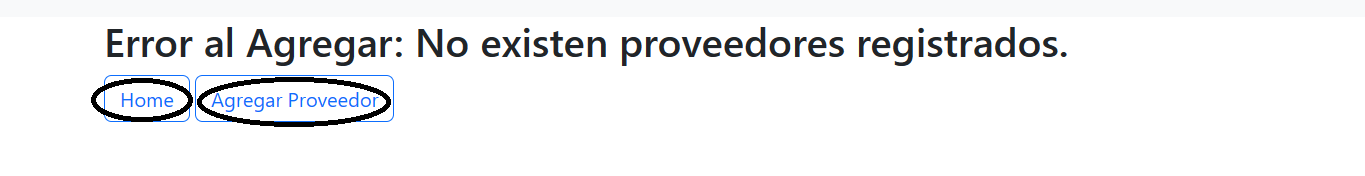
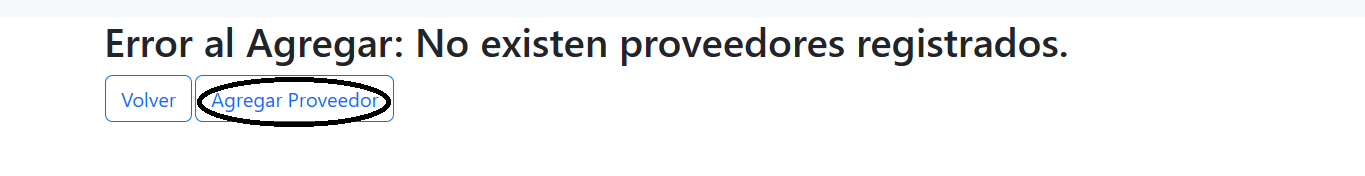
Segundo commit. Agregue clave candidata Nombre-Proveedor en el modelo Producto. Modifique botones y templates. Cambie el nombre del template inicial a Inicio, agregue links en la lista de proveedores hacia una lista de productos pertenecientes a un proveedor, y agregue un template para agregar produ

Changed region(s): [[0.0615, 0.4261, 0.1538, 0.7102]]

diff --git a/compra/templates/inicio.html b/compra/templates/inicio.html
@@ -1,0 +1,71 @@
+
+{% extends 'base.html' %}
+{% load static%}
+{% block 'content' %}
+    <h1>Stock Control</h1><br>
+    <h4><em>¿Como lo uso?</em></h4>
+    <ol>
+        <li>
+            <p>
+                Si el navegador posee una pantalla pequeña, debes clickear sobre el <strong>Menú</strong> <i class="fa-solid fa-bars fa-2xs"></i> . Si no, ignora este paso.
+            </p>
+        </li>
+        <li>
+            <p>
+                Luego haz click en <strong>Proveedores</strong> y agrega uno clickeando en <i class="fa-solid fa-plus" style="color: #11ff00;"></i> debajo de la tabla.
+            </p>
+        </li>
+        <li>
+            <p>
+                Lo siguiente es registrar los Productos que nos provee. Haz click en <strong>Productos</strong> y luego haz click en <i class="fa-solid fa-plus" style="color: #11ff00;"></i> debajo de la tabla.
+            </p>
+        </li>
+        <li>
+            <p>
+            Y por ultimo repetir los pasos anteriores para formar tu Base de datos de <strong>Proveedores</strong> y <strong>Productos</strong>.
+            </p>
+        </li>
+    </ol><br>
+    <h4><em>Funciones Principales</em></h4>
+    <ul>
+        <li>
+            <p>
+                <u>Listar</u> <strong>Proveedores</strong> y <strong>Productos</strong>.
+            </p>
+        </li>
+        <li>
+            <p>
+                <u>Agregar</u> <strong>Proveedores</strong> y <strong>Productos</strong>.
+            </p>
+        </li>
+        <li>
+            <p>
+                <u>Modificar</u> <strong>Proveedores</strong> y <strong>Productos</strong>.
+            </p>
+            </li>
+        <li>
+            <p>
+                <u>Eliminar</u> <strong>Proveedores</strong> y <strong>Productos</strong>.
+            </p>
+        </li>
+    </ul><br>
+    <h4><em>Aclaraciones</em></h4>
+    <ul>
+        <li>
+            <p>
+                Al agregar <strong>Productos</strong> debes tener en cuenta que debe existir al menos un <strong>Proveedor</strong>.
+            </p>
+        </li>
+        <li>
+            <p>
+                Al eliminar <strong>Proveedores</strong> debes tener en cuenta que no deben tener <strong>Productos</strong> relacionados.
+            </p>
+        </li>
+        <li>
+            <p>
+                Por ultimo: Esta aplicacion es una simulacion de Control de Stock, seria genial agregarle funciones como enlistar productos segun el proveedor, ordenar productos por Stock, ordenar Proveedores segun la fecha de registro y un gran etc... Desde ya agradezco su cooperacion y espero que llegue este proyecto llegue a un buen puerto.
+            </p>
+        </li>
+    </ul>
+{% endblock %}
+

diff --git a/templates/navbar.html b/templates/navbar.html
@@ -4,7 +4,7 @@
       <span class="navbar-toggler-icon"></span>
     </button>
     <div class="collapse navbar-collapse" id="navbarTogglerDemo01">
-      <a class="navbar-brand" href="{% url 'index' %}">Home</a>
+      <a class="navbar-brand" href="{% url 'inicio' %}">Inicio</a>
       <ul class="navbar-nav me-auto mb-2 mb-lg-0">
         <li class="nav-item">
           <a class="nav-link active" aria-current="page" href="{% url 'proveedores' %}">Proveedores</a>

diff --git a/compra/templates/proveedores.html b/compra/templates/proveedores.html
@@ -14,7 +14,7 @@
     <tbody>
     {% for p in proveedores %}
         <tr>
-            <td class="col-4">{{ p.nombre_completo }}</td>
+            <td class="col-4"><a href="{% url 'productos-proveedor' p.id %}">{{ p.nombre_completo }}</a></td>
             <td class="col-3">{{ p.dni }}</td>
             <td class="col-3">{{ p.fecha_registro|date:'d/m/Y' }}</td>
             <td class="col-1">{{ p.cant_p }}</td>

diff --git a/compra/templates/productos_proveedor.html b/compra/templates/productos_proveedor.html
@@ -38,5 +38,9 @@
     {% endfor %}
     </tbody>
 </table>
-<a href="{% url 'proveedores' %}" class="btn btn-outline-primary"> Cancelar Eliminar</a>
+<p>
+    <a href="{% url 'proveedores' %}" class="btn btn-outline-primary"> Volver a Proveedores </a>
+    o
+    <a href="{% url 'producto-proveedor-create' proveedor.id %}" class="btn btn-outline-primary"> Agrega un Producto </a>
+</p>
 {% endblock %}

diff --git a/compra/templates/producto_proveedor_create.html b/compra/templates/producto_proveedor_create.html
@@ -1,5 +1,5 @@
 {% extends 'base.html' %}
 {% block 'content' %}
     {% include 'crear_actualizar_form.html' %}
-    <a class="btn btn-outline-primary" href="{% url direccion %}">Volver</a>
+    <a class="btn btn-outline-primary" href="{% url direccion parametro %}">Volver</a>
 {% endblock %}

diff --git a/compra/templates/proveedor_create.html b/compra/templates/proveedor_create.html
@@ -1,4 +1,5 @@
 {% extends 'base.html' %}
 {% block 'content' %}
     {% include 'crear_actualizar_form.html' %}
+    <a class="btn btn-outline-primary" href="{% url direccion %}">Volver</a>
 {% endblock %}

diff --git a/templates/error.html b/templates/error.html
@@ -1,2 +1,2 @@
 <h2>{{ mensaje }}</h2>
-<a href="{% url direccion %}" class="btn btn-outline-primary"> Home </a>
+<a href="{% url direccion %}" class="btn btn-outline-primary"> {{ value_volver }} </a>

diff --git a/templates/crear_actualizar_form.html b/templates/crear_actualizar_form.html
@@ -3,5 +3,4 @@
     {{ form.as_p }}
 
     <input type="submit" value="{{ submit }}" class="btn btn-primary" >
-    <a class="btn btn-outline-primary" href="{% url direccion %}">Volver</a>
 </form>

diff --git a/compra/views.py b/compra/views.py
@@ -1,3 +1,4 @@
+from django import forms
 from django.db.models import ProtectedError
 from django.shortcuts import render, redirect, get_object_or_404
 from compra.models import Proveedor, Producto
@@ -5,8 +6,8 @@ from compra.forms import ProveedorForm, ProductoForm
 
 
 # Create your views here.
-def index(request):
-    return render(request, 'index.html')
+def inicio(request):
+    return render(request, 'inicio.html')
 
 
 def proveedores_view(request):
@@ -23,13 +24,9 @@ def proveedores_view(request):
 
 def productos_view(request):
     productos = Producto.objects.all()
-    hay = True
     return render(request, 'productos.html', {
         'productos': productos
     })
-
-
-
 
 
 def proveedor_create(request):
@@ -55,16 +52,16 @@ def producto_create(request):
             if form.is_valid():
                 form.save()
                 return redirect('productos')
-
         return render(request, 'producto_create.html', {
-            'form': form,
-            'submit': 'Crear Producto',
-            'direccion': 'productos'
-        })
+                'form': form,
+                'submit': 'Crear Producto',
+                'direccion': 'productos'
+            })
     else:
         return render(request, 'error_opcion_producto.html', {
             'mensaje': 'Error al Agregar: No existen proveedores registrados.',
-            'direccion': 'index',
+            'direccion': 'inicio',
+            'value_volver': 'Inicio',
             'value': 'Agregar Proveedor'
         })
 
@@ -114,12 +111,14 @@ def proveedor_delete(request, proveedor_id):
             'direccion': 'proveedores',
             'productos': productos,
             'proveedor': proveedor,
-            'value': 'Ver Productos'
+            'value': 'Ver Productos',
+            'value_volver': 'Atras'
         })
     except Exception:
         return render(request, 'error.html', {
             'mensaje': 'Error al borrar: Proveedor no encontrado.',
-            'direccion': 'productos-proveedor'
+            'direccion': 'productos-proveedor',
+            'value_volver': 'Atras'
         })
 
 
@@ -142,3 +141,27 @@ def producto_proveedor_delete(request, proveedor_id, producto_id):
     producto = Producto.objects.get(id=producto_id)
     producto.delete()
     return redirect('productos-proveedor', proveedor_id=proveedor_id)
+
+
+def producto_proveedor_create(request, proveedor_id):
+    form = ProductoForm(initial={
+        'proveedor': Proveedor.objects.get(id=proveedor_id)
+    })
+    form.fields['proveedor'].widget = forms.HiddenInput()
+    if request.method == 'POST':
+        form = ProductoForm(request.POST)
+        form.fields['proveedor'].widget = forms.HiddenInput()
+        if form.is_valid():
+            producto = form.save(commit=False)
+            proveedor = Proveedor.objects.get(id=proveedor_id)
+            producto.proveedor = proveedor
+            producto.save()
+            return redirect('productos-proveedor', proveedor_id=proveedor_id)
+
+    return render(request, 'producto_proveedor_create.html', {
+        'form': form,
+        'submit': 'Crear Producto',
+        'direccion': 'productos-proveedor',
+        'parametro': proveedor_id
+
+    })

diff --git a/compra/models.py b/compra/models.py
@@ -1,4 +1,6 @@
-from django.db import models
+from django.core.exceptions import ValidationError
+from django.db import models, IntegrityError
+
 
 # Create your models here.
 
@@ -6,7 +8,7 @@ from django.db import models
 class Proveedor(models.Model):
     nombre = models.CharField(max_length=50)
     apellido = models.CharField(max_length=50)
-    dni = models.IntegerField()
+    dni = models.IntegerField(unique=True)
     fecha_registro = models.DateTimeField(auto_now_add=True)
     fecha_modificacion = models.DateTimeField(auto_now_add=True)
 
@@ -16,6 +18,12 @@ class Proveedor(models.Model):
     def nombre_completo(self):
         return f'{self.nombre} {self.apellido}'
 
+    def save(self, *args, **kwargs):
+        try:
+            super().save(*args, *kwargs)
+        except IntegrityError :
+            raise ValidationError("Ya existe Proveedor con el mismo DNI")
+
 
 class Producto(models.Model):
     proveedor = models.ForeignKey(Proveedor, on_delete=models.PROTECT)
@@ -23,5 +31,9 @@ class Producto(models.Model):
     precio = models.DecimalField(max_digits=10, decimal_places=2)
     stock_actual = models.IntegerField()
 
+    class Meta:
+        unique_together = ('proveedor', 'nombre')
+
     def __str__(self):
         return f'{self.nombre}'
+

diff --git a/compra/urls.py b/compra/urls.py
@@ -5,7 +5,7 @@ from compra import views
 urlpatterns = [
     path('proveedor/all', views.proveedores_view, name="proveedores"),
     path('producto/all', views.productos_view, name="productos"),
-    path('productos-proveedor/<int:proveedor_id>', views.productos_proveedor, name="productos-proveedor"),
+    path('productos/proveedor/<int:proveedor_id>', views.productos_proveedor, name="productos-proveedor"),
     path('proveedor/create', views.proveedor_create, name="proveedor-create"),
     path('proveedor/update/<int:proveedor_id>', views.proveedor_update, name="proveedor-update"),
     path('proveedor/delete/<int:proveedor_id>', views.proveedor_delete, name="proveedor-delete"),
@@ -13,6 +13,7 @@ urlpatterns = [
     path('producto/update/<int:producto_id>', views.producto_update, name="producto-update"),
     path('producto/delete/<int:producto_id>', views.producto_delete, name="producto-delete"),
     path('proveedor/<int:proveedor_id>/producto/<int:producto_id>/delete', views.producto_proveedor_delete, name="producto-proveedor-delete"),
-    path('', views.index, name="index"),
+    path('proveedor/<int:proveedor_id>/producto/create', views.producto_proveedor_create, name="producto-proveedor-create"),
+    path('', views.inicio, name="inicio"),
 
 ]

diff --git a/compra/forms.py b/compra/forms.py
@@ -75,3 +75,4 @@ class ProductoForm(ModelForm):
             raise forms.ValidationError("El precio debe ser un numero positivo y menor a 1 millon")
         elif stock < 0:
             raise forms.ValidationError("El stock debe ser un numero natural")
+
